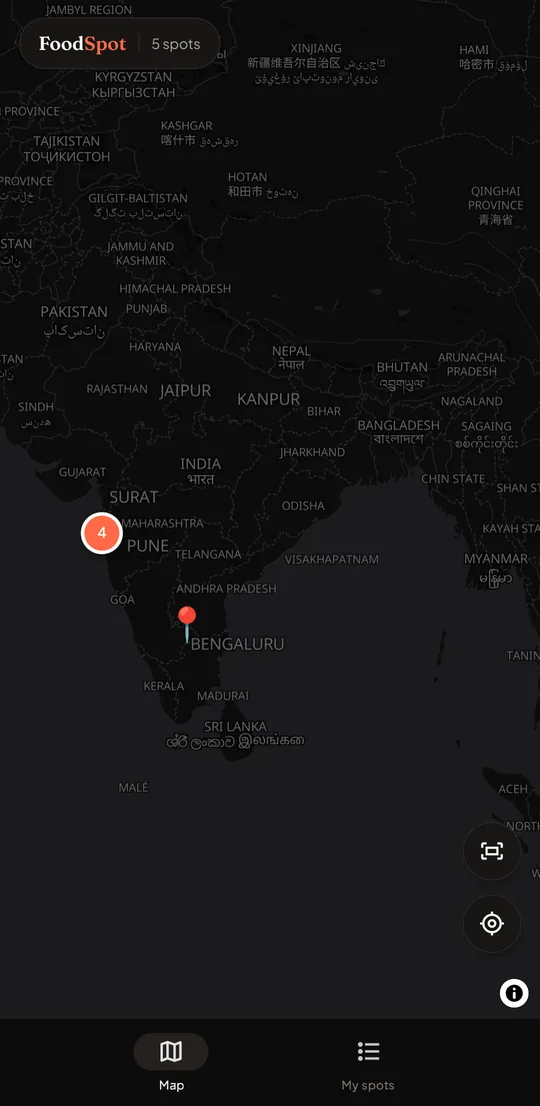
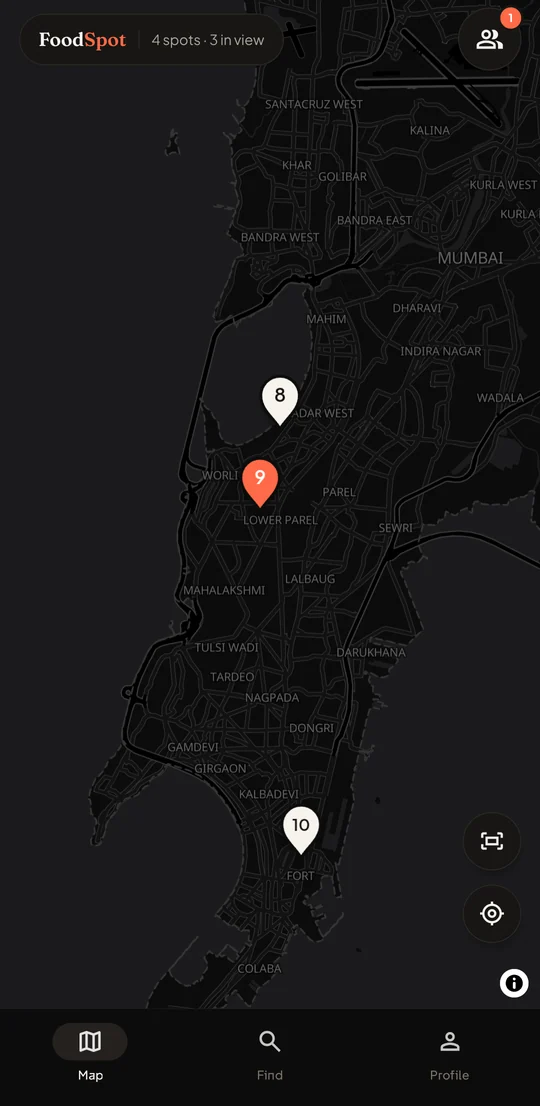
Home: 1.0.6 screenshots, shorter About, copy edits

diff --git a/index.html b/index.html
@@ -135,6 +135,7 @@
   .center { text-align: center; }
   h2 { font-size: clamp(36px, 5vw, 62px); line-height: 1.04; margin: 18px 0 18px; font-weight: 500; letter-spacing: -0.03em; }
   .sub { color: var(--muted); font-size: 18px; max-width: 600px; margin: 0 auto; }
+  .acc { color: var(--accent); }
   .alt { background: var(--bg2); border-top: 1px solid var(--line); border-bottom: 1px solid var(--line); }
 
   /* how it works */
@@ -234,6 +235,15 @@
   .prose p strong { color: var(--text); font-weight: 600; }
   .prose h3 { font-family: Fraunces, serif; font-weight: 500; font-size: 24px; letter-spacing: -0.01em; margin: 30px 0 10px; }
   .prose a { color: var(--accent); }
+  .prose .lead { font-family: Fraunces, serif; font-size: clamp(22px, 2.4vw, 28px); line-height: 1.35; letter-spacing: -0.01em;
+                 color: var(--text); margin: 6px 0 30px; }
+  .facts { list-style: none; margin: 0; padding: 0; }
+  .facts li { display: flex; gap: 18px; align-items: flex-start; padding: 20px 0; border-top: 1px solid var(--line); color: var(--muted); }
+  .facts li:last-child { border-bottom: 1px solid var(--line); }
+  .facts b { display: block; color: var(--text); font-weight: 600; margin-bottom: 4px; }
+  .facts a { display: inline-block; margin-top: 2px; font-weight: 600; text-decoration: none; }
+  .fi { flex: none; width: 42px; height: 42px; border-radius: 12px; display: grid; place-items: center; background: var(--accent-soft); color: var(--accent); }
+  .fi svg { width: 20px; height: 20px; }
 
   /* download */
   .dl { position: relative; border-radius: 36px; padding: 1px; background: linear-gradient(140deg, color-mix(in srgb, var(--accent) 70%, transparent), var(--line) 38%, var(--line) 62%, color-mix(in srgb, var(--accent) 45%, transparent)); }
@@ -468,7 +478,6 @@
       <div class="step" data-reveal>
         <div class="n">01</div>
         <h3>Share the reel</h3>
-        <p>On Instagram or YouTube, tap <strong>Share</strong> and pick <strong>FoodSpot</strong>.</p>
         <div class="mock sheet" aria-hidden="true">
           <div class="title">Share to</div>
           <div class="apps">
@@ -482,7 +491,6 @@
       <div class="step" data-reveal>
         <div class="n">02</div>
         <h3>We find the spot</h3>
-        <p>FoodSpot reads the caption, finds the restaurant on the map and fills in the details. Fix anything with a tap.</p>
         <div class="mock" aria-hidden="true">
           <div class="caption">Best dosa I’ve had in years, crisp edges and that chutney!! <span class="hl">📍 The Dosa Room, Indiranagar, Bengaluru</span> #southindian</div>
           <div class="found"><span class="ok"><svg viewBox="0 0 24 24" fill="none" stroke="currentColor" stroke-width="3" stroke-linecap="round" stroke-linejoin="round"><path d="M5 12.5l4.5 4.5L19 7.5"/></svg></span>Found The Dosa Room</div>
@@ -491,7 +499,6 @@
       <div class="step" data-reveal>
         <div class="n">03</div>
         <h3>Let’s go</h3>
-        <p>When you’re nearby, tap the pin and <strong>Let’s go</strong> for Google Maps directions from where you are.</p>
         <div class="mock popup" aria-hidden="true">
           <div class="pname">The Dosa Room</div>
           <div class="prate"><b>9.1</b>/10 · saved from @southbites</div>
@@ -507,7 +514,7 @@
   <div class="wrap center">
     <div class="eyebrow" data-reveal><b>02</b> Features</div>
     <h2 class="serif" data-reveal>A food map that’s <em>actually yours</em>.</h2>
-    <p class="sub" data-reveal>Built for people who plan trips around what they’re going to eat.</p>
+    <p class="sub" data-reveal>Built for the <span class="acc">foodie</span> in you.</p>
     <div class="bento">
       <div class="tile map span4" data-reveal>
         <svg class="mini" viewBox="0 0 800 420" preserveAspectRatio="xMidYMid slice" aria-hidden="true">
@@ -560,7 +567,7 @@
 
       <div class="tile span2" data-reveal>
         <h3>Respot the good ones</h3>
-        <p>Found a gem on someone’s list? Respot it into yours. They get the credit.</p>
+        <p>Found a gem on someone’s list? Respot it into yours.</p>
         <div class="art" aria-hidden="true">
           <div class="rs">
             <span class="rate">9.4<small>/10</small></span>
@@ -584,7 +591,7 @@
         <div class="copy">
           <h3>Public or private, every spot is your call</h3>
           <p>Public spots appear on your profile and on your followers’ maps. Private ones are only ever yours. Log in with email or Google and everything follows you to a new phone, and the map still works offline.</p>
-          <div class="chips"><span>Synced to your account</span><span>Works offline</span><span>No ads, ever</span><span>Delete everything anytime</span></div>
+          <div class="chips"><span>Synced to your account</span><span>Works offline</span><span>Delete everything anytime</span></div>
         </div>
         <div class="seg" aria-hidden="true">
           <span class="on"><svg viewBox="0 0 24 24" fill="none" stroke="currentColor" stroke-width="2" stroke-linecap="round" stroke-linejoin="round"><circle cx="12" cy="12" r="9"/><path d="M3 12h18M12 3a14 14 0 0 1 0 18M12 3a14 14 0 0 0 0 18"/></svg>Public</span>
@@ -609,18 +616,18 @@
       <h2 class="serif">What FoodSpot <em>does</em>.</h2>
     </div>
     <div class="prose" data-reveal>
-      <p><strong>FoodSpot</strong> is a free Android app, made by ftwco., for saving the restaurants you discover in
-        Instagram and YouTube food videos. Share a reel to FoodSpot and it reads the caption, finds the restaurant,
-        and pins it on your personal food map. Later, tap the pin for directions in Google Maps.</p>
-      <p>Pick a username to get your own profile. Keep each spot public or private, follow friends and creators,
-        rate places, and respot their finds into your own list.</p>
-      <h3>Your FoodSpot account</h3>
-      <p>You log in so your saved spots are kept in your account and stay with you when you change phones. You can
-        log in with a one-time code sent to your email, or with <strong>Sign in with Google</strong>.</p>
-      <p>When you sign in with Google, FoodSpot receives only your <strong>name, email address and Google account
-        ID</strong>. We use them only to create your FoodSpot account, log you in and sync your saved spots. We don’t
-        use them for ads, don’t sell them and don’t share them. You can delete your account and all its data in the
-        app at any time. Details are in our <a href="privacy">Privacy Policy</a>.</p>
+      <p class="lead">A free Android app by ftwco. Share a food reel and FoodSpot pins the restaurant on your own map, ready
+        for directions when you’re nearby.</p>
+      <ul class="facts">
+        <li><span class="fi"><svg viewBox="0 0 24 24" fill="none" stroke="currentColor" stroke-width="2" stroke-linecap="round" stroke-linejoin="round"><circle cx="12" cy="8" r="4"/><path d="M4 21c1.5-4 4.5-6 8-6s6.5 2 8 6"/></svg></span>
+          <div><b>Your account</b>Log in with an email code or Google. Your spots stay with you on every phone.</div></li>
+        <li><span class="fi"><svg viewBox="0 0 24 24" fill="none" stroke="currentColor" stroke-width="2" stroke-linecap="round" stroke-linejoin="round"><rect x="5" y="11" width="14" height="10" rx="2"/><path d="M8 11V7a4 4 0 0 1 8 0v4"/></svg></span>
+          <div><b>Sign in with Google</b>We receive only your name, email address and Google account ID, and use them only
+            to log you in and sync your spots. Never for ads, never sold or shared.</div></li>
+        <li><span class="fi"><svg viewBox="0 0 24 24" fill="none" stroke="currentColor" stroke-width="2" stroke-linecap="round" stroke-linejoin="round"><path d="M4 7h16M10 11v6M14 11v6M5 7l1 13h12l1-13M9 7V4h6v3"/></svg></span>
+          <div><b>Your data, your call</b>Delete your account and everything in it from the app, anytime.
+            <a href="privacy">Privacy Policy</a></div></li>
+      </ul>
     </div>
   </div>
 </section>
@@ -665,7 +672,7 @@
       <details><summary>Which reels work?</summary><p>Any Instagram reel or YouTube Short (and most web pages or Google Maps links). FoodSpot works best when the caption names the place, like “📍 Restaurant, Area, City”. If it can’t tell, it shows its best guess and you pick the spot on the map.</p></details>
       <details><summary>Who can see my spots?</summary><p>You choose for each spot. Public spots show on your profile and on the maps of people who follow you; private spots are only yours. Spots you saved before profiles existed stay private.</p></details>
       <details><summary>Where is my data stored?</summary><p>In your FoodSpot account, so your spots follow you to a new phone, with a copy on your phone for offline use. You can delete your account in the app at any time. Read the <a href="privacy">privacy policy</a>.</p></details>
-      <details><summary>I’m a creator. Can I link my profile?</summary><p>Soon: you’ll be able to connect your Instagram or YouTube to your FoodSpot profile, so fans can follow the places from your reels.</p></details>
+      <details><summary>I’m a creator. Can I link my profile?</summary><p>Yes. Open your profile, tap <strong>Edit profile</strong> and connect Instagram or YouTube. Your handle shows on your profile, so fans can follow the places from your reels. We’re opening it up to every account as Instagram and Google finish reviewing FoodSpot.</p></details>
     </div>
   </div>
 </section>
